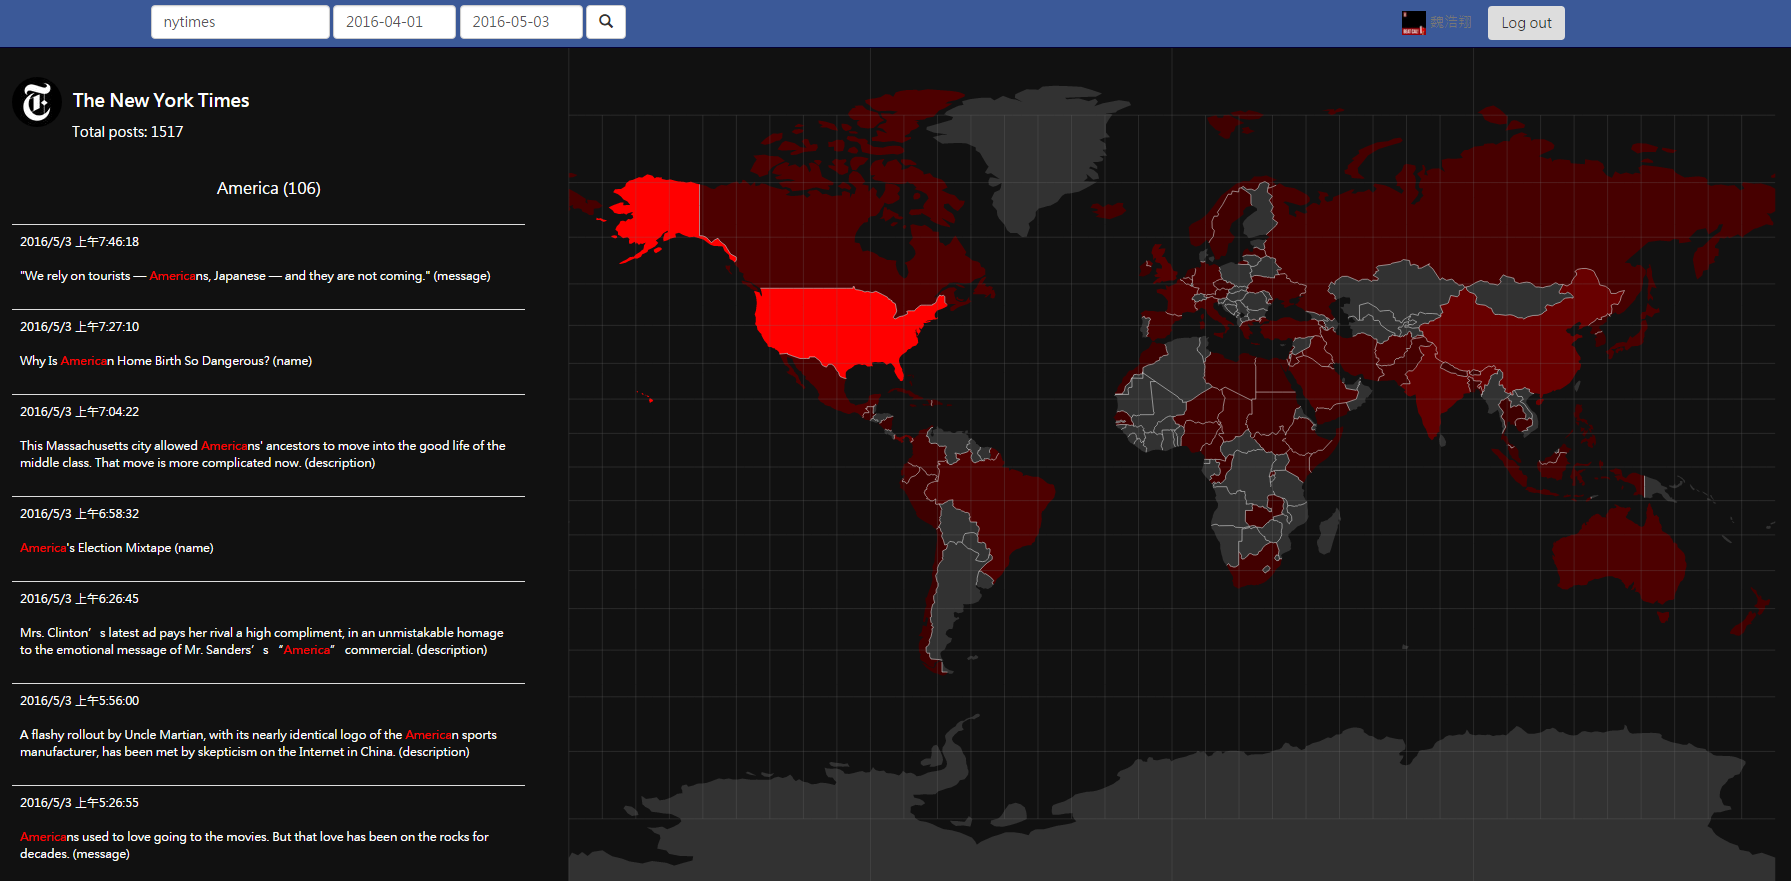
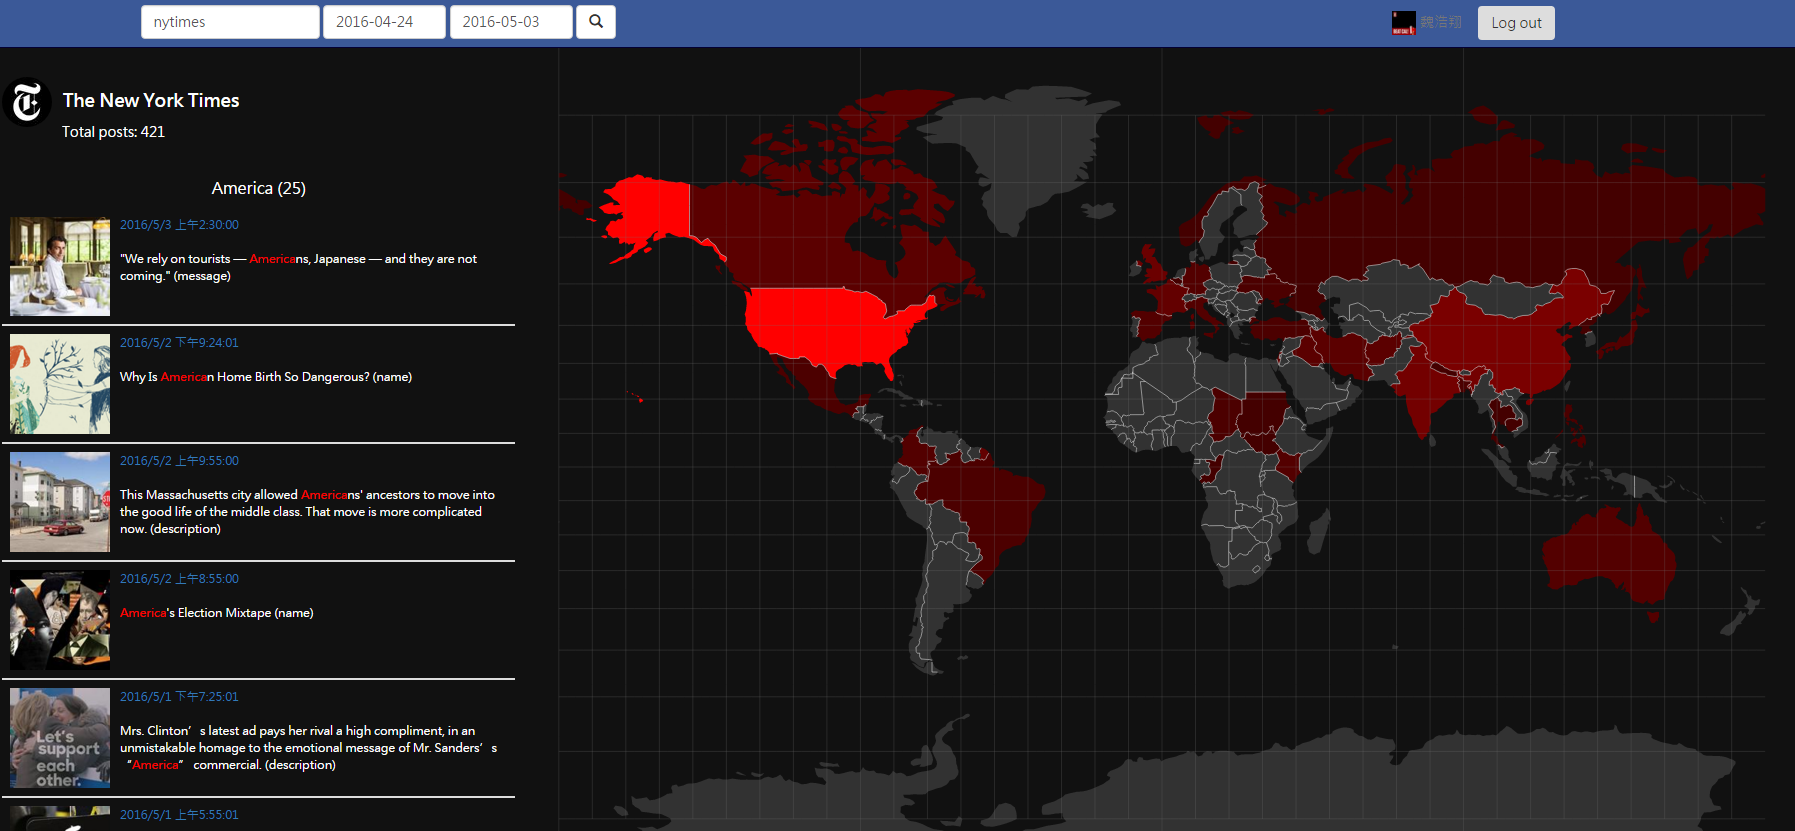
新增post photo

diff --git a/html/world_news_map.html b/html/world_news_map.html
@@ -45,7 +45,6 @@
       <button type="button" class="btn btn-inverse navrbar-btn" id="fb-auth"></button>
     </div>
   </nav>
-
   <div align="center">
     <div id="loading_image"><img src="img/loading.gif" /></div>
   </div>
@@ -132,7 +131,7 @@
 
           function queryPageInfo(pagename, tokens, sincedate, untildate) {
 
-            FB.api("/"+pagename+"?fields=id,name,posts.until("+untildate+").since("+sincedate+").limit(100){created_time,message,name,description}",
+            FB.api("/"+pagename+"?fields=id,name,posts.until("+untildate+").since("+sincedate+").limit(100){id,picture,created_time,message,name,description}",
               function(response) {
                 if (response.error) {
                   console.log(response);
@@ -226,6 +225,8 @@
               for(var i=0; i<the_nest.length; i++) {
                 the_nest[i].values[0].message = [];
                 the_nest[i].values[0].time = [];
+                the_nest[i].values[0].picture = [];
+                the_nest[i].values[0].postid = [];
               }
 
               // 關鍵字比對(map_data.json中的key vs posts.data的message、name以及description)
@@ -247,17 +248,24 @@
 
                   if(data.posts.data[j].message.match(the_nest[i].values[0].name)) {
                     the_nest[i].values[0].value = parseInt(the_nest[i].values[0].value)+1;
+                    the_nest[i].values[0].postid.push(data.posts.data[j].id);
+                    the_nest[i].values[0].time.push(new Date(data.posts.data[j].created_time).toLocaleString());
+                    the_nest[i].values[0].picture.push(data.posts.data[j].picture);
                     the_nest[i].values[0].message.push(data.posts.data[j].message.replace(reg_key, "<font color=\"red\">"+the_nest[i].key+"</font>")+"  (message)")
+
                   } else if(data.posts.data[j].name.match(the_nest[i].values[0].name)) {
                     the_nest[i].values[0].value = parseInt(the_nest[i].values[0].value)+1;
+                    the_nest[i].values[0].postid.push(data.posts.data[j].id);
+                    the_nest[i].values[0].time.push(new Date(data.posts.data[j].created_time).toLocaleString());
+                    the_nest[i].values[0].picture.push(data.posts.data[j].picture);
                     the_nest[i].values[0].message.push(data.posts.data[j].name.replace(reg_key, "<font color=\"red\">"+the_nest[i].key+"</font>")+"  (name)");
+
                   } else if(data.posts.data[j].description.match(the_nest[i].values[0].name)) {
                     the_nest[i].values[0].value = parseInt(the_nest[i].values[0].value)+1;
-                    the_nest[i].values[0].message.push(data.posts.data[j].description.replace(reg_key, "<font color=\"red\">"+the_nest[i].key+"</font>")+"  (description)");
-                  }
-
-                  if(data.posts.data[j].created_time) {
+                    the_nest[i].values[0].postid.push(data.posts.data[j].id);
                     the_nest[i].values[0].time.push(new Date(data.posts.data[j].created_time).toLocaleString());
+                    the_nest[i].values[0].picture.push(data.posts.data[j].picture);
+                    the_nest[i].values[0].message.push(data.posts.data[j].description.replace(reg_key, "<font color=\"red\">"+the_nest[i].key+"</font>")+"  (description)");
                   }
                 }
               }
@@ -287,12 +295,24 @@
                   if (d.id == n.id) {return d.message = n.message;}
                 });
               })
+              .filter(function(d) {
+                return names.some(function(n) {
+                  if (d.id == n.id) {return d.time = n.time;}
+                });
+              })
+              .filter(function(d) {
+                return names.some(function(n) {
+                  if (d.id == n.id) {return d.picture = n.picture;}
+                });
+              })
+              .filter(function(d) {
+                return names.some(function(n) {
+                  if (d.id == n.id) {return d.postid = n.postid;}
+                });
+              })
               .sort(function(a, b) {
                 return a.name.localeCompare(b.name);
               });
-
-              console.log(countries)
-
 
               svg.selectAll(".country")
               .data(countries)
@@ -316,6 +336,8 @@
               .attr("class", "boundary")
               .attr("d", path);
 
+              console.log(countries)
+
               function mouse_click(d, i) {
 
                 fbmessage.innerHTML = "";
@@ -327,7 +349,11 @@
                   country_info.innerHTML = countries[i].name+"  ("+countries[i].value+")";
                   for(var j=0; j<countries[i].message.length; j++) {
                     //fbmessage.innerHTML += "<p>"+d.properties.name+" ("+(j+1)+") "+the_nest[i].values[0].time[j]+"<br>"+"</p>";
-                    fbmessage.innerHTML += "<br><td>"+the_nest[i].values[0].time[j]+"<br><br>"+countries[i].message[j]+"<br></td>";
+
+                    fbmessage.innerHTML +=
+                    "<td><img class=\"post_picture\" src=\""+countries[i].picture[j]+"\">"+
+                    "<a href = \"http://www.facebook.com/"+countries[i].postid[j]+"\" target=_blank>"+countries[i].time[j]+"</a><br><br>"+
+                    countries[i].message[j]+"<br></td>";
                   }
                 }
               }

diff --git a/html/css/world_map.css b/html/css/world_map.css
@@ -22,7 +22,7 @@ body {
   width: 27%;
   height: 220px;
   background-color: #111111;
-  z-index: 1;
+  z-index: 2;
 }
 #page_info {
   position: absolute;
@@ -31,7 +31,6 @@ body {
   font-size: 18px;
   font-weight: bold;
   padding-bottom: 50px;
-  z-index: 2;
 }
 #post_info {
   position: absolute;
@@ -40,7 +39,6 @@ body {
   color: white;
   font-size: 14px;
   line-height: 30px;
-  z-index: 2;
 }
 #country_info {
   position: absolute;
@@ -48,11 +46,11 @@ body {
   width: 100%;
   color: white;
   font-size: 16px;
-  z-index: 2;
   text-align: center;
 }
 #fbgraph {
   position: fixed;
+  z-index: 0;
 }
 #fbmessage {
   position: absolute;
@@ -61,6 +59,13 @@ body {
   width: 27%;
   color: white;
   font-size: 12px;
+  z-index: 1;
+}
+.post_picture {
+  width: 100px;
+  height: 100px;
+  float: left;
+  margin-right: 10px;
 }
 .node_label {
   text-anchor: middle;
@@ -85,16 +90,14 @@ body {
   width: 60px;
   height: 60px;
 }
-div.calendar
-{
-    max-width: 240px;
-    margin-left: auto;
-    margin-right: auto;
+div.calendar {
+  max-width: 240px;
+  margin-left: auto;
+  margin-right: auto;
 }
-div.calendar table
-{
-    width: 100%;
-    margin-top: 150px;
+div.calendar table {
+  width: 100%;
+  margin-top: 150px;
 }
 .graticule {
   fill: none;
